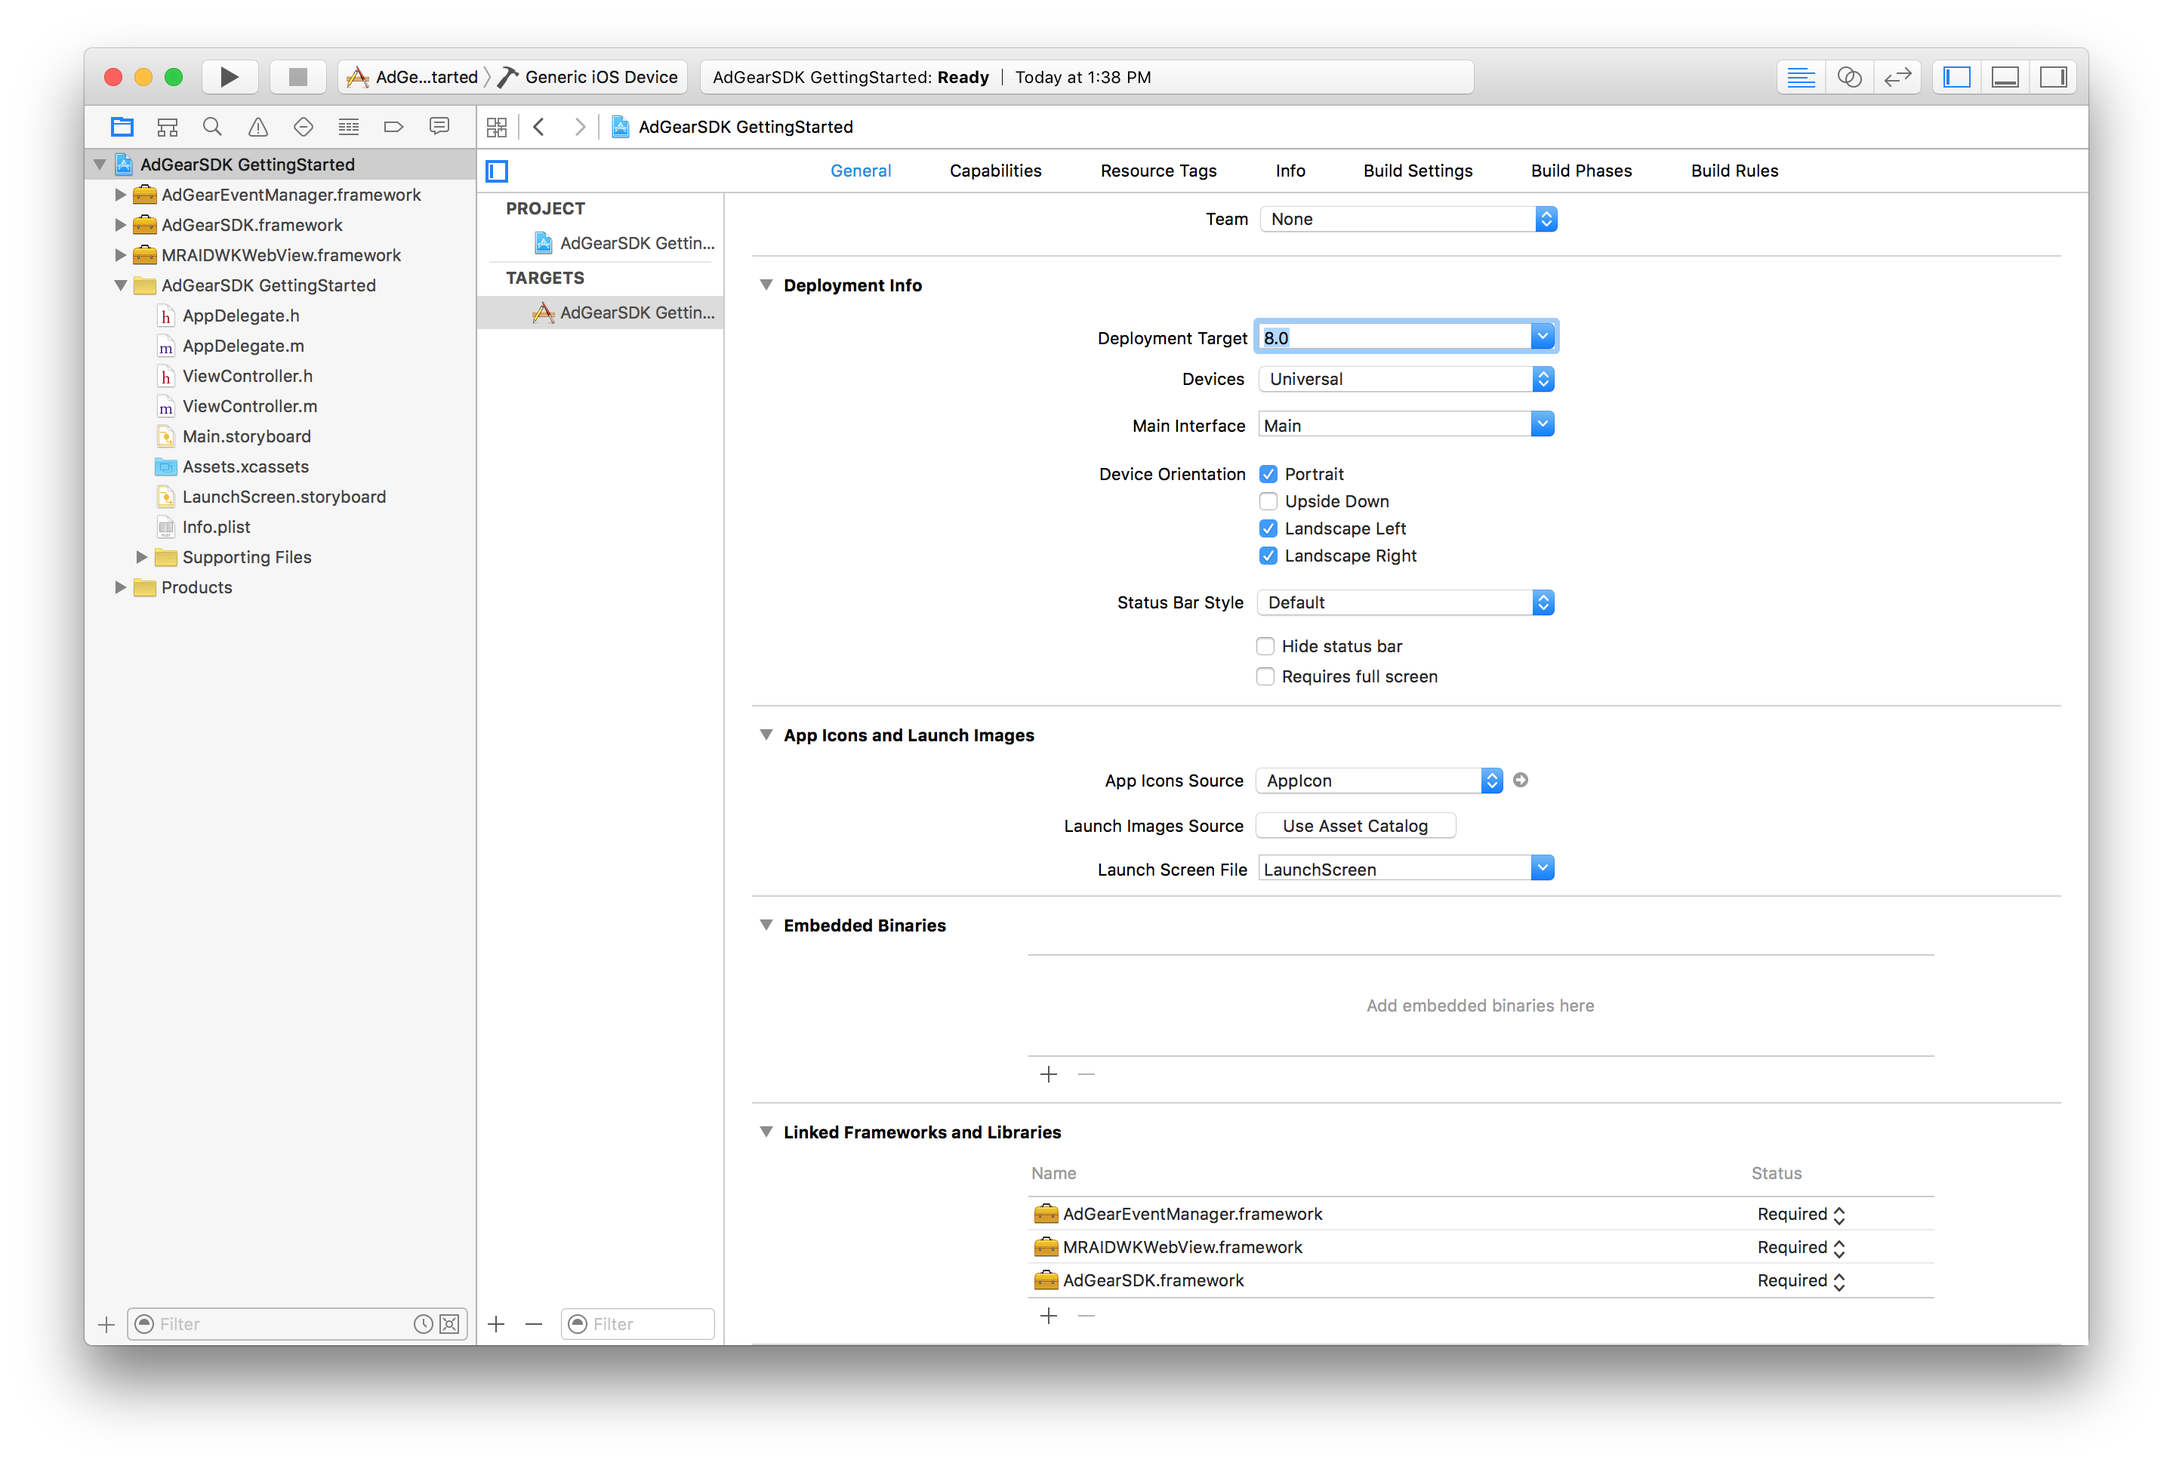
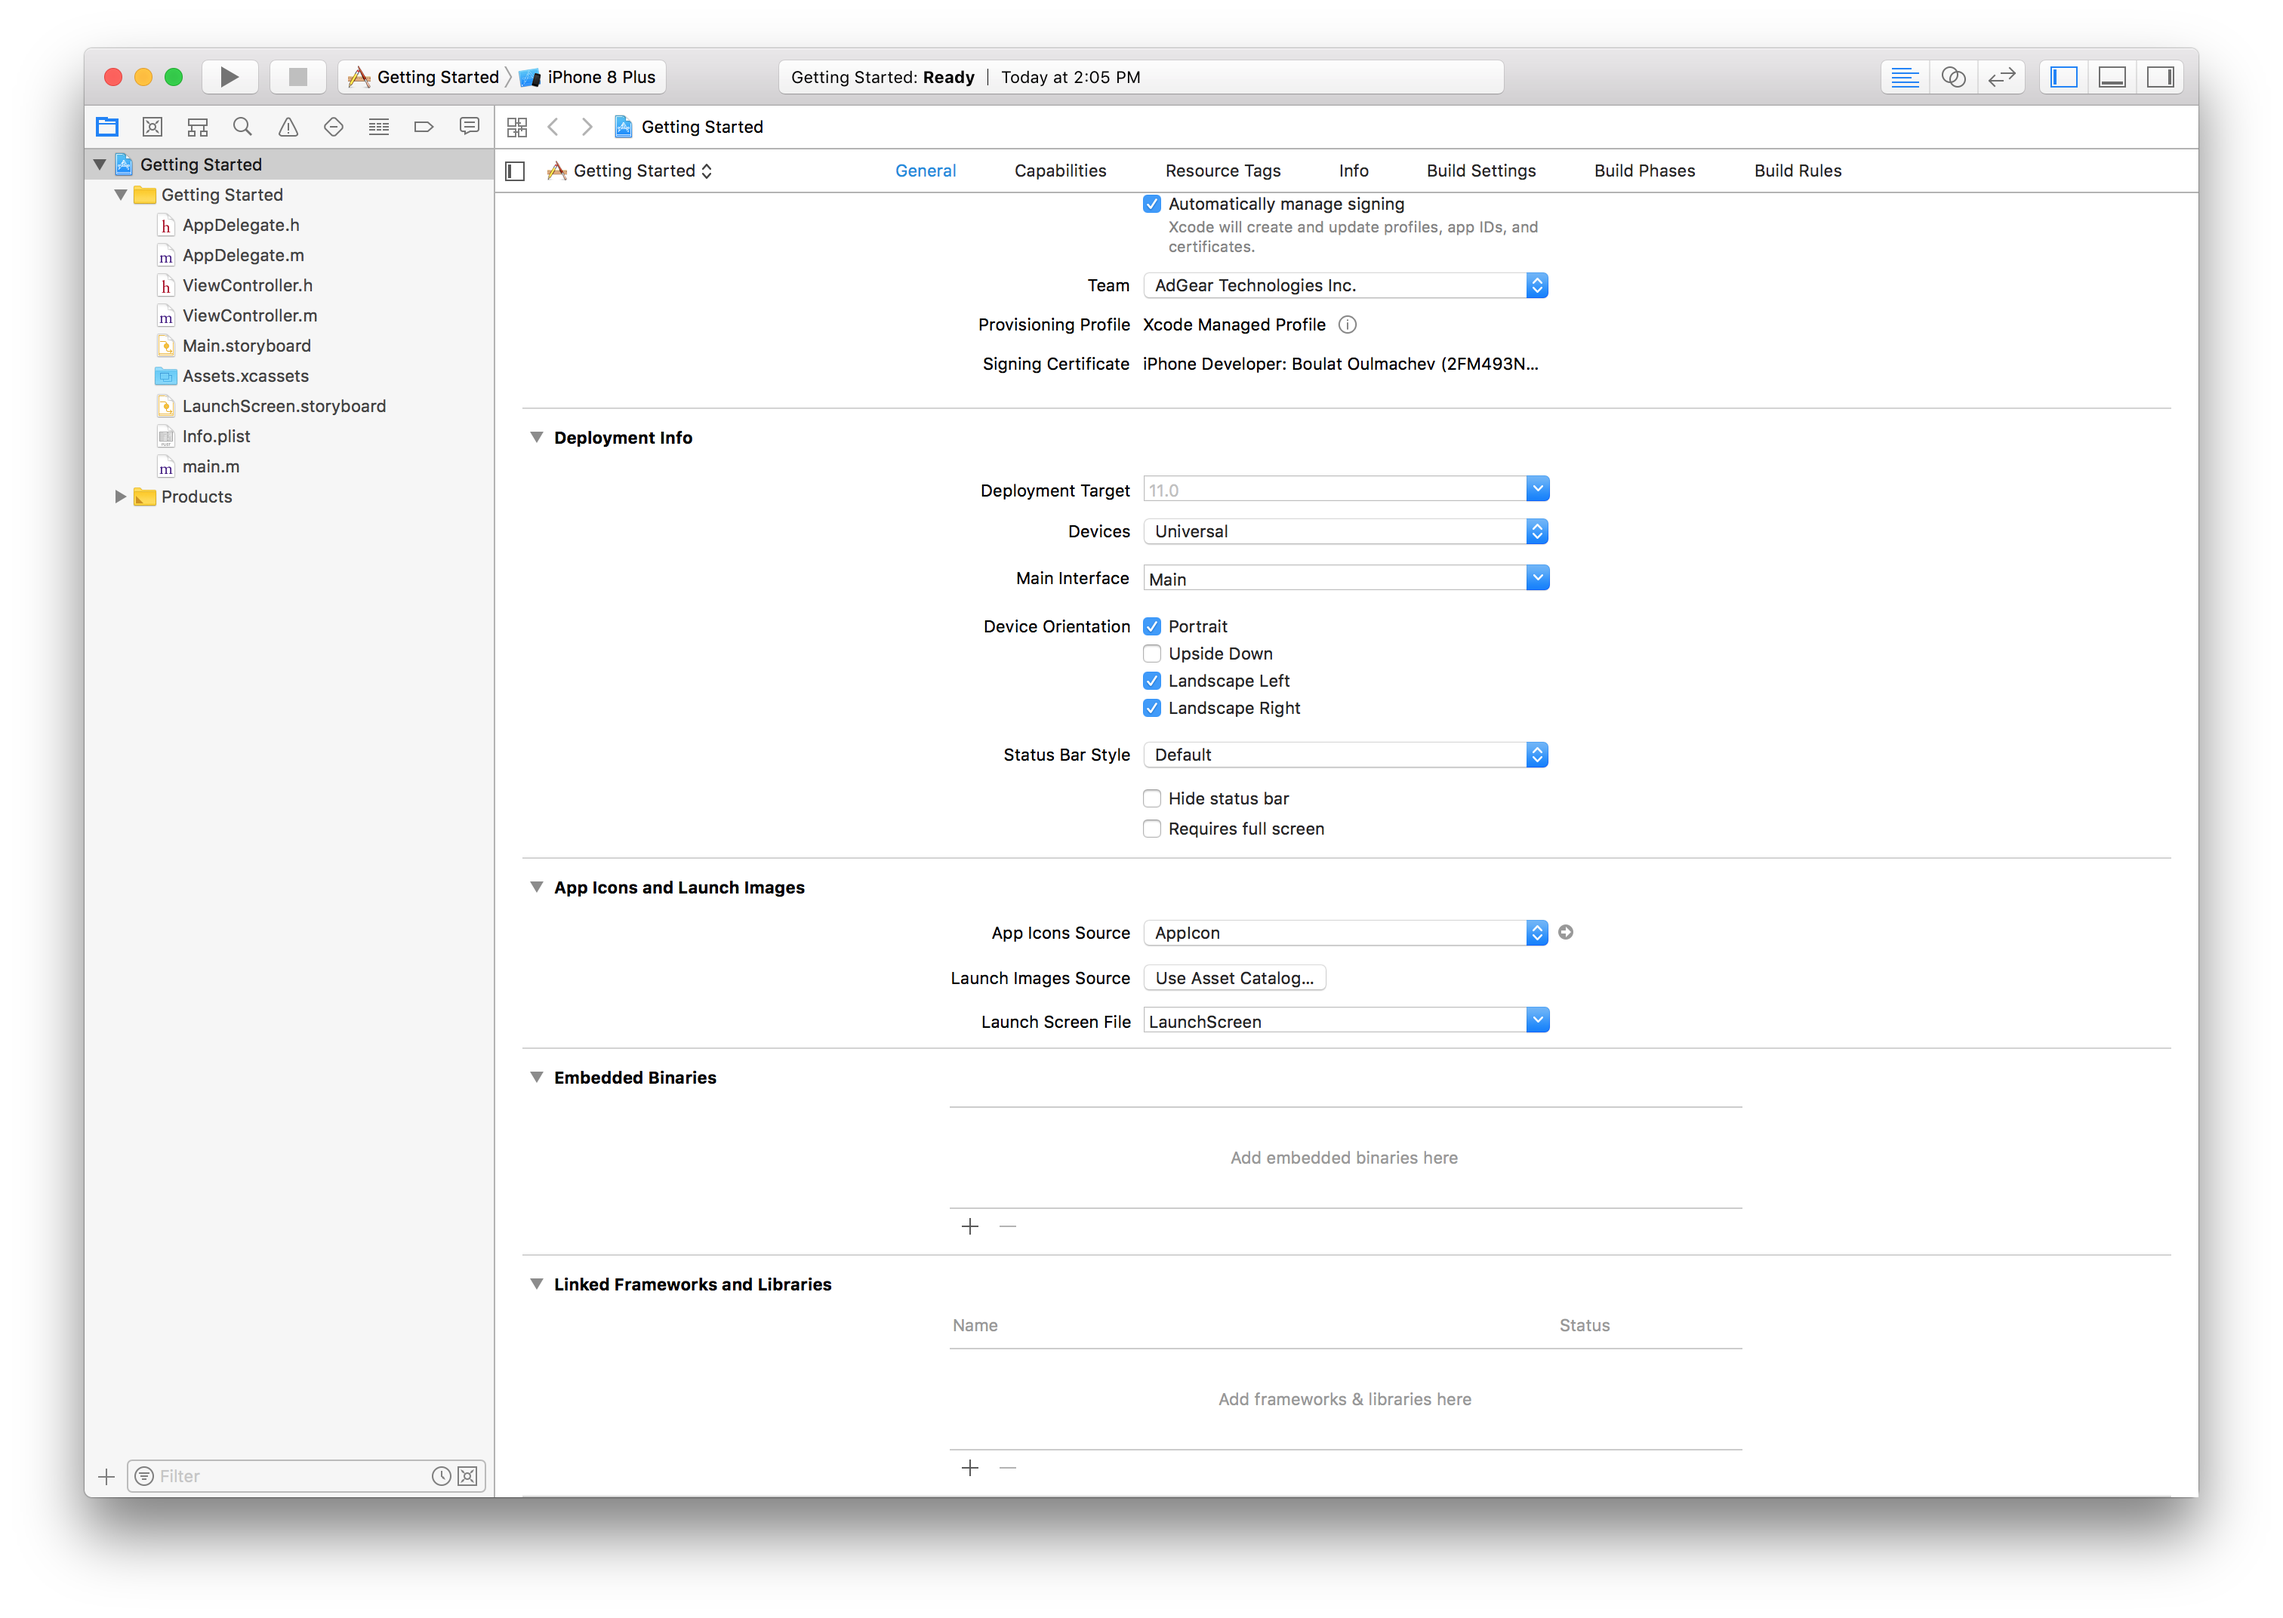
Fixed getting started section

diff --git a/docs/pages/ios-sdk/getting-started.md b/docs/pages/ios-sdk/getting-started.md
@@ -8,38 +8,42 @@ summary: Follow this quick start and you'll be up and running in about five minu
 
 ## Create new project and import frameworks
 Open Xcode and create new Single View Application project.
+
 ![Single View Application]({{site.baseurl}}/assets/images/create-project1.png)
 
 Click Next and select name for your new project. Then click Next again.
+
 ![Name your project]({{site.baseurl}}/assets/images/create-project2.png)
 
-In the newly created project set the Deployment Target to ```8.0``` and copy unpacked frameworks into the project.
-![Set Deployment Target and copy Frameworks]({{site.baseurl}}/assets/images/create-project3.png)
+You should see a new project window looking similar to this.
 
-Add frameworks to Embedded Binaries by clicking on "+" button in Embedded Binaries section. Then select frameworks like shown on the picture and click "Add" button.
-![Add frameworks to Embedded Binaries]({{site.baseurl}}/assets/images/create-project4.png)
+![Name your project]({{site.baseurl}}/assets/images/create-project3.png)
 
-Your project target General Settings should look like this.
-![General Settings]({{site.baseurl}}/assets/images/create-project5.png)
+Download AdGear iOS SDK frameworks as "All Frameworks" zipped file from the [Downloads](downloads) page and unpack them to a temporary folder on your computer.
 
-## Configure App Transport Security
-Select `info.plist` file in your project and configuring App Transport Security Exceptions by adding the following keys.
+![Name your project]({{site.baseurl}}/assets/images/create-project5.png)
 
-```
-<key>NSAppTransportSecurity</key>
-<dict>
-  <key>NSAllowsArbitraryLoads</key>
-  <true/>
-</dict>
-```
+Select all frameworks and drag them into your project. You will see a diolog like the one bellow. Make sure you check "Copy items is needed".
 
-![App Transport Security Exceptions]({{site.baseurl}}/assets/images/configure-app-transport.png)
+![Name your project]({{site.baseurl}}/assets/images/create-project6.png)
+
+Click on "Finish" button and your project should look like this.
+
+![Name your project]({{site.baseurl}}/assets/images/create-project7.png)
+
+Add frameworks to "Linked Frameworks and Libraries" section by clicking on "+" button in Embedded Binaries section. Then select frameworks like shown on the picture and click "Add" button.
+
+![Add frameworks to Embedded Binaries]({{site.baseurl}}/assets/images/create-project8.png)
+
+After clicking on "Add" button and your project should look like this.
+
+![Name your project]({{site.baseurl}}/assets/images/create-project9.png)
 
 ## Modify ViewController.m file
 Import AdGearSDK Module by adding the following code in the top of your `ViewController.m` file.
 
 ```
-@import AdGearSDK;
+@import AdGearSpotView;
 ```
 
 Add AGSpotView property in the interface section and declare that the view controller implements `AGSpotViewDelegate` protocol.
@@ -53,7 +57,7 @@ Add AGSpotView property in the interface section and declare that the view contr
 Add required delegate method.
 
 ```
-- (UIViewController *)spotViewPresentingViewController {
+- (nonnull UIViewController *)spotViewPresentingViewController {
     return self;
 }
 ```
@@ -64,13 +68,20 @@ Modify viewDidLoad method to include the following.
 - (void)viewDidLoad {
     [super viewDidLoad];
     
-    self.spotView = [[AGSpotView alloc] initWithFrame:CGRectMake(0, 20, 336, 280)];
+    // Initialize spot view and add it as a subview
+    self.spotView = [[AGSpotView alloc] initWithFrame:CGRectMake(0, 40, 326, 280)];
     self.spotView.delegate = self;
     [self.view addSubview:self.spotView];
     
-    [AGAdRequest adWithSpotId:@"10746221" targetingParameters:nil andCompletion:^(AGAd * _Nullable ad, NSError * _Nullable error) {
-        [self.spotView loadAd:ad];
-        [self.spotView registerImpression];
+    self.view.backgroundColor = UIColor.lightGrayColor;
+    
+    // Make/reuest ad and load it into the spot view
+    [AGConsoleAdFactory makeSpotViewAdWithSpotId:@"10746221" params:nil completion:^(AGSpotViewAd *spotViewAd, NSError *error) {
+        if (error != nil) {
+            NSLog(@"Error: %@", error);
+            return;
+        }
+        [self.spotView loadAd:spotViewAd];
     }];
 }
 ```
@@ -78,17 +89,10 @@ Modify viewDidLoad method to include the following.
 At the end your `ViewController.m` file should look like this.
 
 ```
-//
-//  ViewController.m
-//  AdGearSDK GettingStarted
-//
-//  Created by You on 2016-01-28.
-//  Copyright © 2016 YourCompany. All rights reserved.
-//
-
-@import AdGearSDK;
-
 #import "ViewController.h"
+
+// Import AdGearSpotView framework
+@import AdGearSpotView;
 
 @interface ViewController () <AGSpotViewDelegate>
 @property (nonatomic, strong) AGSpotView *spotView;
@@ -99,22 +103,29 @@ At the end your `ViewController.m` file should look like this.
 - (void)viewDidLoad {
     [super viewDidLoad];
     
-    self.spotView = [[AGSpotView alloc] initWithFrame:CGRectMake(0, 20, 336, 280)];
+    // Initialize spot view and add it as a subview
+    self.spotView = [[AGSpotView alloc] initWithFrame:CGRectMake(20, 60, 326, 280)];
     self.spotView.delegate = self;
     [self.view addSubview:self.spotView];
     
-    [AGAdRequest adWithSpotId:@"10746221" targetingParameters:nil andCompletion:^(AGAd * _Nullable ad, NSError * _Nullable error) {
-        [self.spotView loadAd:ad];
-        [self.spotView registerImpression];
+    self.view.backgroundColor = UIColor.lightGrayColor;
+    
+    // Make/reuest ad and load it into the spot view
+    [AGConsoleAdFactory makeSpotViewAdWithSpotId:@"10746221" params:nil completion:^(AGSpotViewAd *spotViewAd, NSError *error) {
+        if (error != nil) {
+            NSLog(@"Error: %@", error);
+            return;
+        }
+        [self.spotView loadAd:spotViewAd];
     }];
 }
 
+
 - (void)didReceiveMemoryWarning {
     [super didReceiveMemoryWarning];
-    // Dispose of any resources that can be recreated.
 }
 
-- (UIViewController *)spotViewPresentingViewController {
+- (nonnull UIViewController *)spotViewPresentingViewController {
     return self;
 }
 
